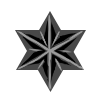
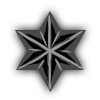
리소스 대거 수정
이미지 자체에 그림자 붙임

Changed region(s): [[0.12, 0.09, 0.9, 0.96]]

diff --git a/src/Classes/objects/Player.cpp b/src/Classes/objects/Player.cpp
@@ -86,11 +86,9 @@ bool Player::initExternalData(
 		return false;
 
 	/* image */
-	auto image = root.get("image", Json::Value::null).asCString();
-	if (!Unit::init(_MAKE_PATH("%s.png", image)))
+	auto image = root.get("image", Json::Value::null).asString();
+	if (!Unit::init(_MAKE_PATH("%s", image.c_str())))
 		return false;
-	shadow = Sprite::create(_MAKE_PATH("%s_shadow.png", image));
-	addChild(shadow, Z::shadow);
 
 	/* attr */
 	auto attrList = root.get("attrs", Json::Value::null);

diff --git a/src/Classes/objects/Enemy.cpp b/src/Classes/objects/Enemy.cpp
@@ -38,12 +38,8 @@ Enemy *Enemy::create(
 }
 bool Enemy::init(
 	int enemyType){
-	if (!Unit::init(_MAKE_PATH("enemy%d.png", enemyType+1)))
+	if (!Unit::init(_MAKE_PATH("enemy%d", enemyType+1)))
 		return false;
-
-	shadow = Sprite::create(
-		_MAKE_PATH("enemy%d_shadow.png", enemyType));
-	addChild(shadow, Z::shadow);
 
 	attackData.user = this;
 	attackData.object = this;

diff --git a/src/Classes/objects/EnemySpawner.cpp b/src/Classes/objects/EnemySpawner.cpp
@@ -26,7 +26,7 @@ EnemySpawner *EnemySpawner::create(){
 	return nullptr;
 }
 bool EnemySpawner::init(){
-	if(!Unit::init(R::EnemySpawner))
+	if(!Node::init())
 		return false;
 
 	scheduleUpdate();

diff --git a/src/Classes/objects/EnemySpawner.h b/src/Classes/objects/EnemySpawner.h
@@ -7,7 +7,7 @@
 
 class Enemy;
 
-class EnemySpawner : public Unit{
+class EnemySpawner : public cocos2d::Node{
 public:
 	static EnemySpawner *create();
 

diff --git a/src/Classes/objects/Player.h b/src/Classes/objects/Player.h
@@ -63,6 +63,4 @@ protected:
 	float stiff;
 	float speedFactor;
 	std::vector<float> cooltimes;
-
-	cocos2d::Sprite *shadow;
 };

diff --git a/src/Classes/objects/Enemy.h b/src/Classes/objects/Enemy.h
@@ -55,7 +55,4 @@ protected:
 	float cooltime;
 
 	cocos2d::LabelTTF* label;
-
-	cocos2d::Sprite *shadow;
-
 };
